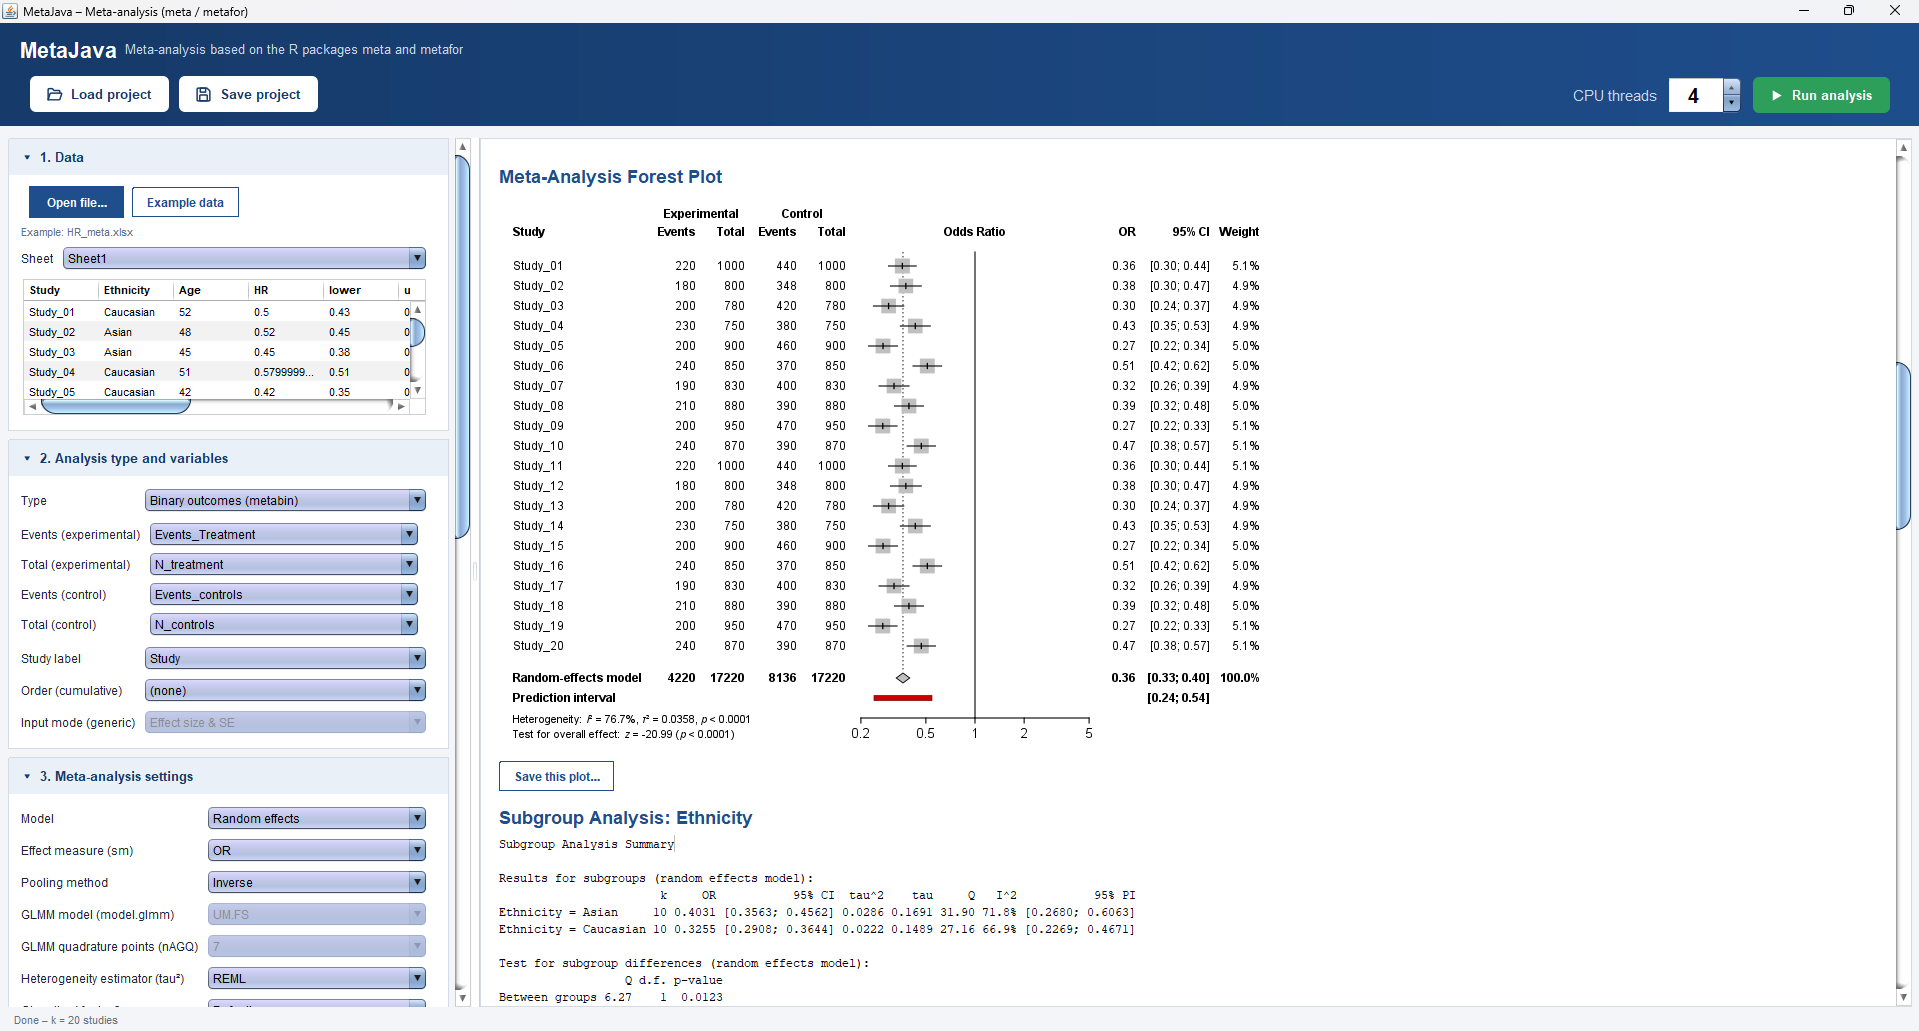
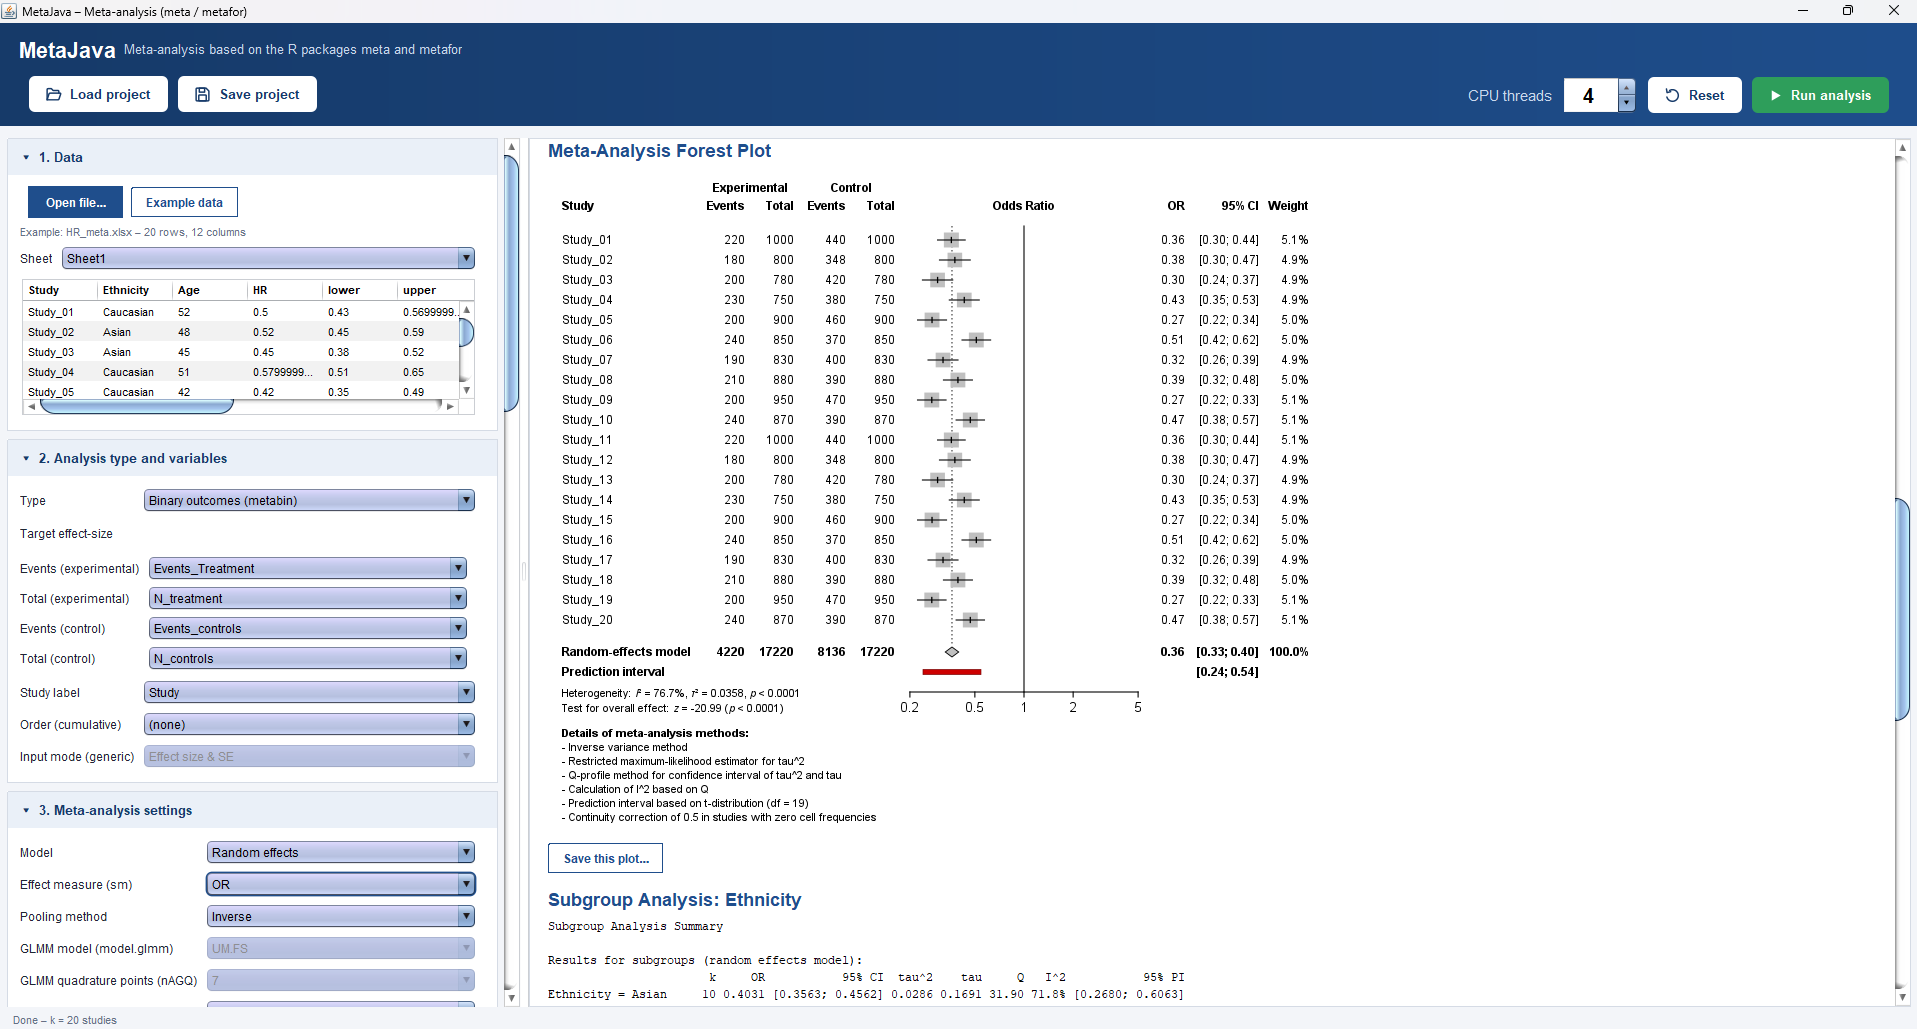
MetaJava
Meta-analysis in Java, following the R packages meta and metafor

diff --git a/src/main/java/org/metajava/gui/MainWindow.java b/src/main/java/org/metajava/gui/MainWindow.java
@@ -128,6 +128,7 @@ public class MainWindow extends JFrame {
         JPanel bar = new JPanel(new FlowLayout(FlowLayout.LEFT, 14, 5)); bar.setBackground(Ui.BG); bar.add(status); busy.setPreferredSize(new Dimension(160, 12)); busy.setVisible(false); bar.add(busy); add(bar, BorderLayout.SOUTH);
         autoTimer.setRepeats(false); typeBox.addActionListener(e -> typeChanged()); typeChanged(); hook(left);
         showWelcome();
+        try { defaultSettings = ProjectIO.defaults(this); } catch (Exception ex) { defaultSettings = null; }
     }
 
     JComponent header() {
@@ -142,7 +143,8 @@ public class MainWindow extends JFrame {
         th.setFont(Ui.BOLD.deriveFont(20f)); th.setPreferredSize(new Dimension(76, 38));
         { JFormattedTextField tf = ((JSpinner.DefaultEditor) th.getEditor()).getTextField(); tf.setFont(Ui.BOLD.deriveFont(20f)); tf.setHorizontalAlignment(JTextField.CENTER); }   // number centred in the white box
         th.addChangeListener(e -> { int v = (Integer) th.getValue(); Par.setThreads(v); try { PREFS.putInt("threads", v); } catch (Exception ex) { } });
-        JPanel east = new JPanel(new FlowLayout(FlowLayout.RIGHT, 10, 0)); east.setOpaque(false); east.add(cl); east.add(th); east.add(run);
+        PillButton reset = new PillButton("Reset", Icons.reset(17, Ui.PRIMARY_DARK), "Reset all options and check boxes to their default values (the data, analysis type and column assignments are kept)"); reset.addActionListener(e -> resetSettings());
+        JPanel east = new JPanel(new FlowLayout(FlowLayout.RIGHT, 10, 0)); east.setOpaque(false); east.add(cl); east.add(th); east.add(reset); east.add(run);
         PillButton load = new PillButton("Load project", Icons.folderOpen(17, Ui.PRIMARY_DARK), "Open a saved MetaJava project (.json): data, assignments and all settings"), save = new PillButton("Save project", Icons.floppy(17, Ui.PRIMARY_DARK), "Save the session (data, assignments and all settings) to a .json file");
         load.addActionListener(e -> loadProject()); save.addActionListener(e -> saveProject());
         JPanel btns = new JPanel(new FlowLayout(FlowLayout.LEFT, 10, 0)); btns.setOpaque(false); btns.add(load); btns.add(save);
@@ -197,7 +199,7 @@ public class MainWindow extends JFrame {
         regStyleBox.setToolTipText("Default = meta style; ggplot2 style = look of a ggplot2 plot (minimal theme, coloured circles, line and confidence band). The colours below apply to the ggplot2 style and to the adjusted regression plot");
         adjChk.setToolTipText("Regression plot of the model of this section with all selected covariates and factors: x = the first numeric covariate, study symbols coloured by the first factor; the line (and confidence band) is the prediction for the reference category of each factor, the other numeric covariates held at their mean. Without a numeric covariate no plot can be drawn");
         rg.row("Bubble plot style", regStyleBox); rg.row("Study symbol", regSymbolBox); rg.row("Size of study symbol", regSymSize); rg.row("Study symbol colour", regColPoints); rg.row("Regression line colour", regColLine); rg.row("Confidence area colour", regColBand); rg.row("Confidence lines colour", regColBandLine); rg.row("Prediction area colour", regColPred); rg.row("Prediction line colour", regColPredLine);
-        java.awt.event.ActionListener regStyleEn = e -> { boolean on = RegPlots.GG.equals(regStyleBox.getSelectedItem()) || adjChk.isSelected(); regColPoints.setEnabled(on); regColLine.setEnabled(on); regColBand.setEnabled(on); regColBandLine.setEnabled(on); regColPred.setEnabled(on); regColPredLine.setEnabled(on); };
+        regStyleEn = e -> { boolean on = RegPlots.GG.equals(regStyleBox.getSelectedItem()) || adjChk.isSelected(); regColPoints.setEnabled(on); regColLine.setEnabled(on); regColBand.setEnabled(on); regColBandLine.setEnabled(on); regColPred.setEnabled(on); regColPredLine.setEnabled(on); };
         regStyleBox.addActionListener(regStyleEn); adjChk.addActionListener(regStyleEn); regStyleEn.actionPerformed(null);
         permChk.setToolTipText("Permutation test for the moderators (metafor::permutest): the rows of the model matrix are permuted and the model is refitted each time. Applies to the model of this section.");
         permIterSp.setToolTipText("Number of random permutations (ignored by the exact test). Precision of the p-value is about 1/iterations."); permSeedF.setToolTipText("Seed of the random number generator: the same seed gives the same p-values");
@@ -266,6 +268,28 @@ funnelThemeBox.setToolTipText("Look of the funnel plot and of the trim-and-fill 
     private static JPanel cell(String label, JComboBox<String> c) { JPanel cell = new JPanel(new BorderLayout(0, 3)); cell.setOpaque(false); cell.add(Ui.label(label), BorderLayout.NORTH); cell.add(c, BorderLayout.CENTER); return cell; }
 
     boolean loading = false;
+    java.awt.event.ActionListener regStyleEn;   // enables the regression-plot colour boxes (also called after a reset)
+    Map<String, Object> defaultSettings;   // start-up state of every plain setting, restored by the Reset button
+
+    /** Reset button: every check box, option, text field and number goes back to its start-up default; data, analysis type and column assignments are kept. */
+    void resetSettings() {
+        if (defaultSettings == null) return;
+        suppress = true; autoTimer.stop();
+        try {
+            refChoice.clear();
+            // the boxes that depend on the analysis type (effect measure, pooling method, GLMM model) and the covariate / factor lists are rebuilt by the type; the column assignments are put back afterwards
+            Map<String, Object> keep = new LinkedHashMap<>(); for (Map.Entry<String, JComboBox<String>> e : maps.entrySet()) keep.put(e.getKey(), e.getValue().getSelectedItem());
+            Object sl = studlabBox.getSelectedItem(), sg = subgroupBox.getSelectedItem(), od = orderBox.getSelectedItem();
+            typeChanged(); suppress = true;
+            for (Map.Entry<String, Object> e : keep.entrySet()) { JComboBox<String> c = maps.get(e.getKey()); if (c != null && e.getValue() != null) c.setSelectedItem(e.getValue()); }
+            studlabBox.setSelectedItem(sl); subgroupBox.setSelectedItem(sg); orderBox.setSelectedItem(od);
+            ProjectIO.restore(this, defaultSettings);
+            regStyleEn.actionPerformed(null); updateRefPanel();
+            covList.setSelectedIndex(0); facList.setSelectedIndex(0);
+        } catch (Exception ex) { error(ex); }
+        finally { suppress = false; loading = false; }
+        status.setText("Settings reset to defaults"); schedule();
+    }
     void schedule() { if (!suppress && table != null) autoTimer.restart(); }
     void hook(Component c) {
         if (c == dpiSp || c == fmtBox || (c instanceof JComponent && c.getParent() == dpiSp)) return;

diff --git a/src/main/java/org/metajava/gui/ProjectIO.java b/src/main/java/org/metajava/gui/ProjectIO.java
@@ -112,6 +112,29 @@ final class ProjectIO {
         if (table == null) w.showWelcome();
     }
 
+
+    // ------------------------------------------------------------------ reset to defaults
+    /** Settings that a reset leaves alone: data structure, column assignments and boxes rebuilt from the data or from the analysis type. */
+    private static final Set<String> KEEP = new HashSet<>(Arrays.asList("studlabBox", "subgroupBox", "orderBox", "cfgFactorBox", "refBox", "smBox", "methodBox", "glmmModelBox"));
+
+    /** Current value of every plain setting (check boxes, options, text fields, spinners), taken once at start-up as the default state. */
+    static Map<String, Object> defaults(MainWindow w) throws Exception {
+        Map<String, Object> d = new LinkedHashMap<>();
+        for (Field f : widgetFields()) {
+            Object o = f.get(w); String n = f.getName(); if (o == null || LISTS.contains(n) || KEEP.contains(n)) continue;
+            if (o instanceof JComboBox) { Object s = ((JComboBox<?>) o).getSelectedItem(); if (s != null) d.put(n, s.toString()); }
+            else if (o instanceof JCheckBox) d.put(n, ((JCheckBox) o).isSelected());
+            else if (o instanceof JTextField) d.put(n, ((JTextField) o).getText());
+            else if (o instanceof JSpinner) d.put(n, (Number) ((JSpinner) o).getValue());
+        }
+        return d;
+    }
+
+    /** Puts every plain setting back to the stored default. */
+    static void restore(MainWindow w, Map<String, Object> d) throws Exception {
+        for (Field f : widgetFields()) { String n = f.getName(); if (d.containsKey(n)) apply(f.get(w), d.get(n)); }
+    }
+
     private static void select(JComboBox<String> c, String v) { if (v.equals("zvalue")) v = "z-value"; else if (v.equals("pvalue")) v = "p-value";   // projects saved before the Drapery types were renamed
         for (int i = 0; i < c.getItemCount(); i++) if (c.getItemAt(i).equals(v)) { c.setSelectedIndex(i); return; } }
     private static void selectList(JList<String> l, List<Object> want) {

diff --git a/src/main/java/org/metajava/gui/Icons.java b/src/main/java/org/metajava/gui/Icons.java
@@ -36,6 +36,14 @@ final class Icons {
         } };
     }
 
+    /** Counter-clockwise circular arrow (reset). */
+    static Icon reset(int size, Color color) {
+        return new Base(size, color) { void draw(Graphics2D g) {
+            g.draw(new Arc2D.Double(2.5, 2.5, 11, 11, 120, -285, Arc2D.OPEN));
+            Path2D head = new Path2D.Double(); head.moveTo(2.3, 1.8); head.lineTo(2.9, 5.3); head.lineTo(6.3, 4.4); g.draw(head);
+        } };
+    }
+
     /** Filled play triangle. */
     static Icon play(int size, Color color) {
         return new Base(size, color) { void draw(Graphics2D g) { Path2D t = new Path2D.Double(); t.moveTo(4, 2.5); t.lineTo(13.5, 8); t.lineTo(4, 13.5); t.closePath(); g.fill(t); } };

diff --git a/CHANGELOG.md b/CHANGELOG.md
@@ -1,5 +1,8 @@
 # Changelog
 
+### Added - Reset button
+- New **Reset** button in the header, between "CPU threads" and "Run analysis". It puts every check box, drop-down option, text field and number (meta-analysis settings, forest / funnel / regression / drapery options, export resolution and format, ...) back to its start-up default. The loaded data, the analysis type, the column assignments and the CPU thread count are kept; the covariate / factor selections go back to "none" and the analysis is re-run automatically.
+
 ### Added - Sensitivity analysis by tau^2 estimator
 - New table at the end of the "Meta-Analysis" text, just below "Details of meta-analysis methods:" and above the forest plot: one row per tau^2 estimator (DL, REML, PM, ML, HS, SJ, HE, EB; the one used in the main analysis is starred) with the pooled effect, CI, p-value (only when a null effect is defined), I^2, heterogeneity p-value, tau^2 and PI. The column names carry the levels in use ("95% CI", "99% PI"). The pooling method, CI method and levels are those of the main analysis. Shown for the random-effects model with inverse-variance type pooling (not for GLMM or penalised likelihood). Included in the Excel / Word exports.
 
